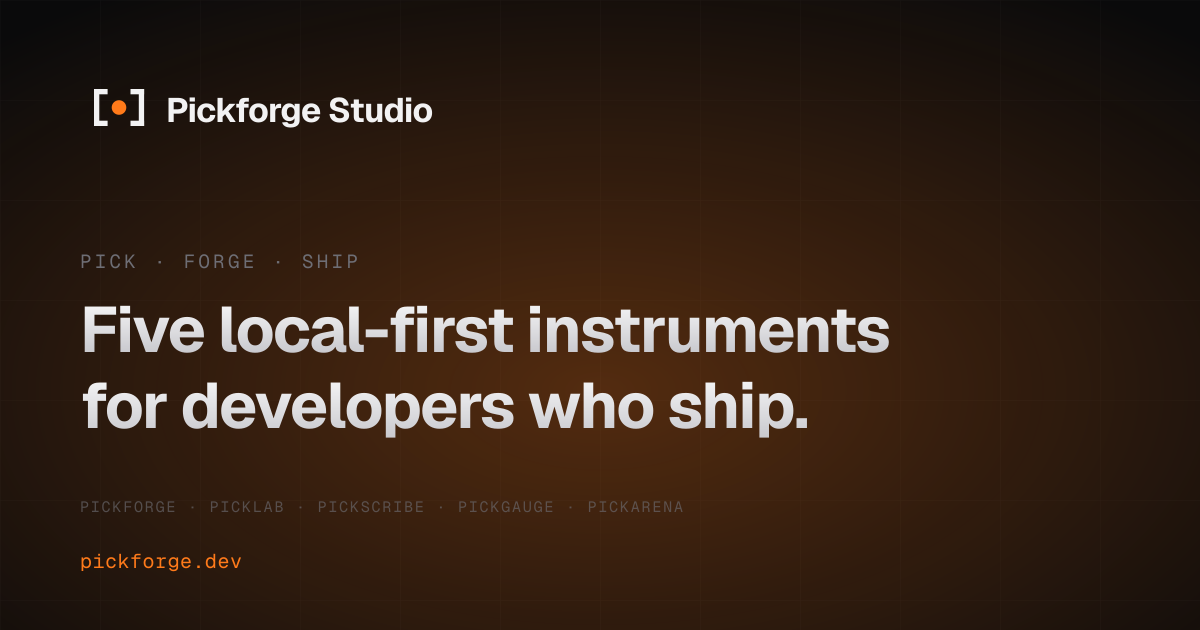
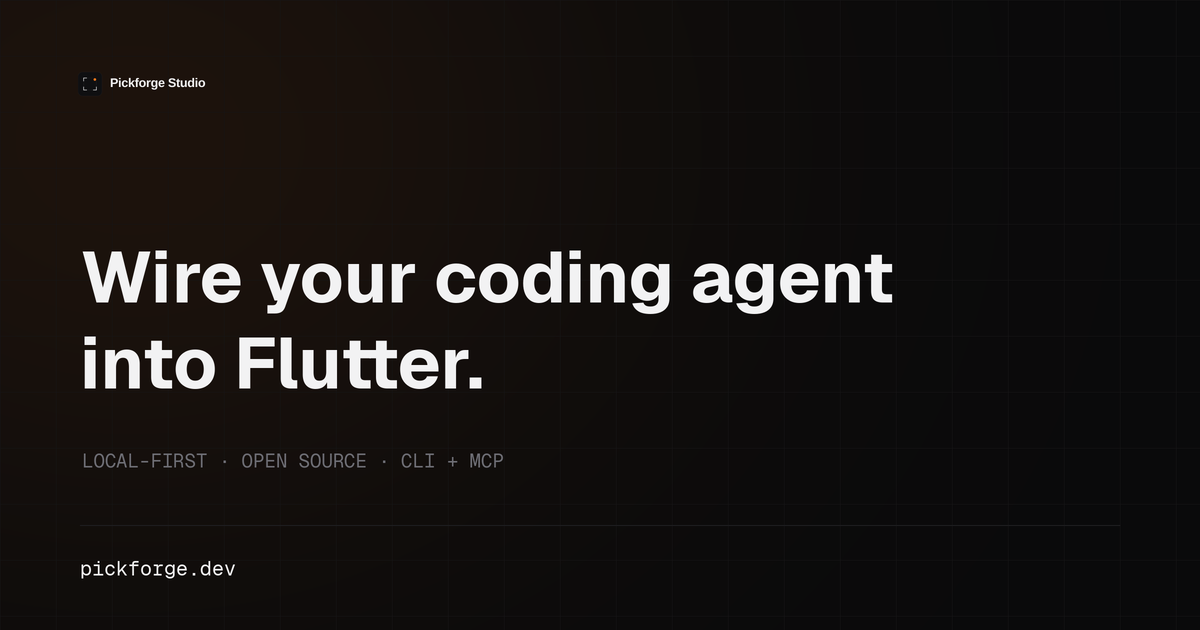
docs: refresh organization profile (#3)
* docs: update organization profile for current Pickforge focus

* docs: replace organization banner with approved Flutter focus

diff --git a/profile/README.md b/profile/README.md
@@ -1,15 +1,23 @@
-<a href="https://pickforge.dev"><img src="./pickforge-studio-og.png" alt="Pickforge Studio — five local-first instruments for developers who ship" width="100%"></a>
+<a href="https://pickforge.dev">
+  <img src="./pickforge-studio-og.png" alt="Pickforge Studio. Wire your coding agent into Flutter." width="100%">
+</a>
 
-Local-first instruments for people who ship. Pick. Forge. Ship.
+Local-first. Open source. Built for people who ship.
 
-- **[PickForge](https://github.com/pickforge/pickforge)** — Point at an element. Ship the fix.
-- **[PickLab](https://github.com/pickforge/picklab)** — Playwright, for native apps.
-- **[PickScribe](https://github.com/pickforge/pickscribe)** — Speak. It types.
-- **[PickGauge](https://github.com/pickforge/pickgauge)** — A fuel gauge for AI subscriptions.
-- **[PickArena](https://github.com/pickforge/pickarena)** — Benchmarks on real Flutter work. *(coming soon)*
+### Wire your coding agent into Flutter.
 
-22 MCP tools. 3 agent CLIs. 0 cloud services.
+[Pickforge](https://github.com/pickforge/pickforge) connects Claude Code, Codex, and Pi to Flutter, with a Linux lab for running and testing real apps.
 
-More at [pickforge.dev](https://pickforge.dev) · [@pickforgedotdev](https://x.com/pickforgedotdev)
+Run isolated desktop sessions, automate Android emulators, and inspect what happened through screenshots, logs, and recorded evidence.
 
-Forge the future.
+CLI + MCP server. Flutter first. Formerly PickLab.
+
+[Get started](https://pickforge.dev/pickforge) · [Source](https://github.com/pickforge/pickforge)
+
+### Also from the workshop
+
+[complexity-gate](https://github.com/pickforge/complexity-gate) checks function complexity inside your coding agent’s workflow, before complicated code becomes your maintenance problem.
+
+---
+
+[pickforge.dev](https://pickforge.dev) · [@pickforgedotdev](https://x.com/pickforgedotdev)
